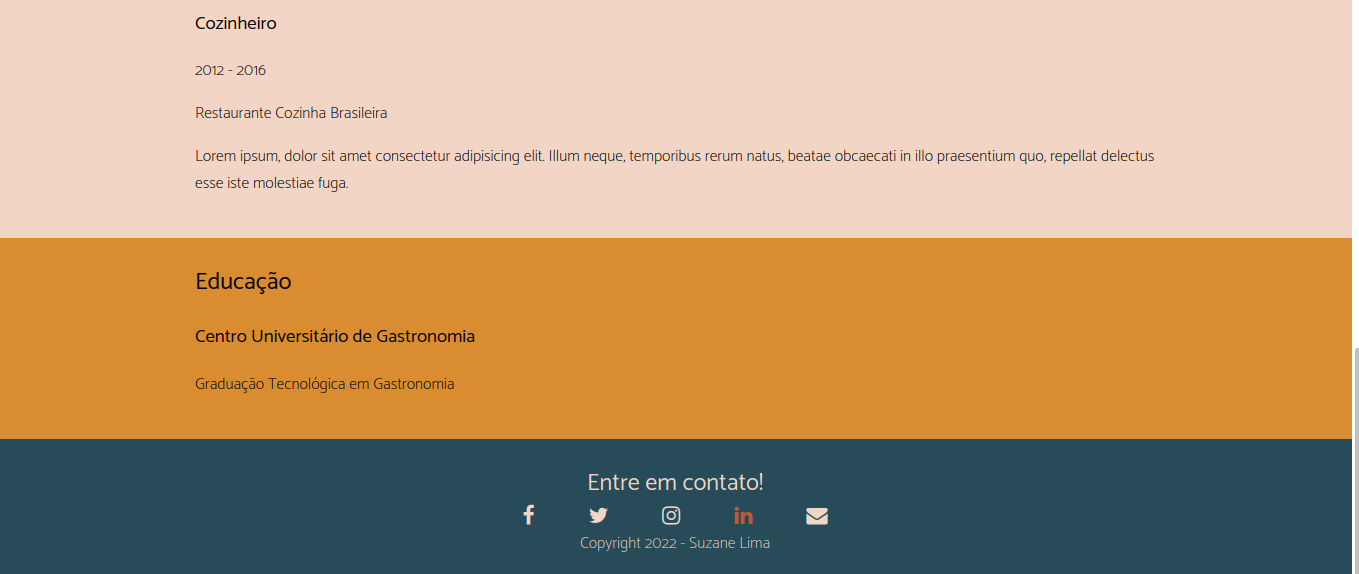
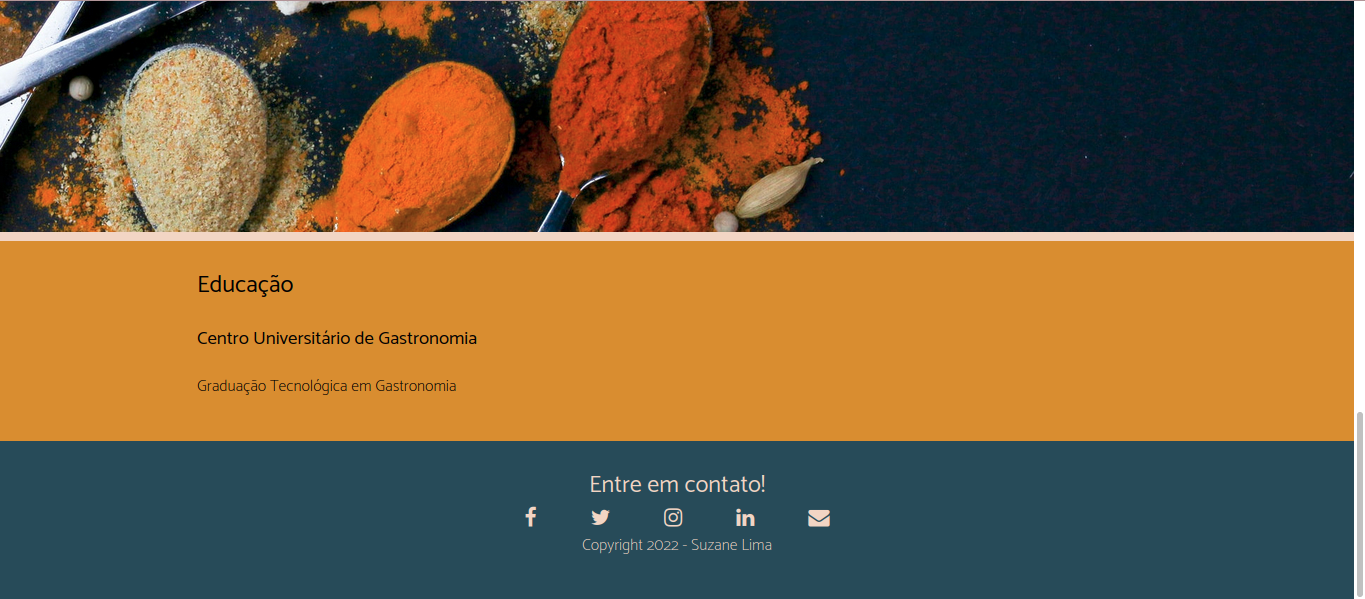
Adicionando responsividade.

diff --git a/index.html b/index.html
@@ -2,6 +2,7 @@
 <html lang="pt-br">
     <head>
         <meta charset="UTF-8"/>
+        <meta name="viewport" content="width=device-width, initial-scale=1.0">
         <title>Antônio | Chefe de Cozinha</title>
 
         <link href="https://fonts.googleapis.com/css2?family=Catamaran:wght@100;400&display=swap" rel="stylesheet"> 
@@ -50,7 +51,10 @@
                     </div>
 
                 </div>
-                <img src="img-maior.jpg" alt="A imagem exibe cinco colheres com variados temperos."/>
+                <picture>
+                    <source media="(max-width: 800px)" srcset="img-menor.jpg">
+                    <img src="img-maior.jpg" alt="A imagem exibe cinco colheres com variados temperos."/>
+                </picture>
             </section>
 
             <section class="educacao">

diff --git a/style.css b/style.css
@@ -44,7 +44,7 @@ h2, p{
 }
 
 main img{
-    max-width: 100%;   
+    width: 100%;   
 }
 
 footer .conteudo{
@@ -75,4 +75,30 @@ footer .conteudo{
 .social-icons a:hover{
     color: var(--caramelo);
     transition: .4s;
+}
+
+@media only screen and (max-width: 930px){
+    .img-header{
+        display: none;
+        visibility: hidden;
+    }
+    header{
+        font-size: 1.5rem;
+    }
+    .text-header{
+        float: none;
+        width: 70%;
+        margin: auto;
+    }
+}
+
+@media only screen and (max-width: 460px){
+    
+    header{
+        font-size: 1rem;
+    }
+
+    .social-icons a{
+        padding: 15px;
+    }
 }

diff --git a/README.md b/README.md
@@ -11,4 +11,5 @@ Acompanhando o passo a passo de uma [revisão](https://youtube.com/playlist?list
 ## :art: Layout
 ![layout1](layout1.png)
 ![layout2](layout2.png)
+![responsivo](responsivo.png)
 
